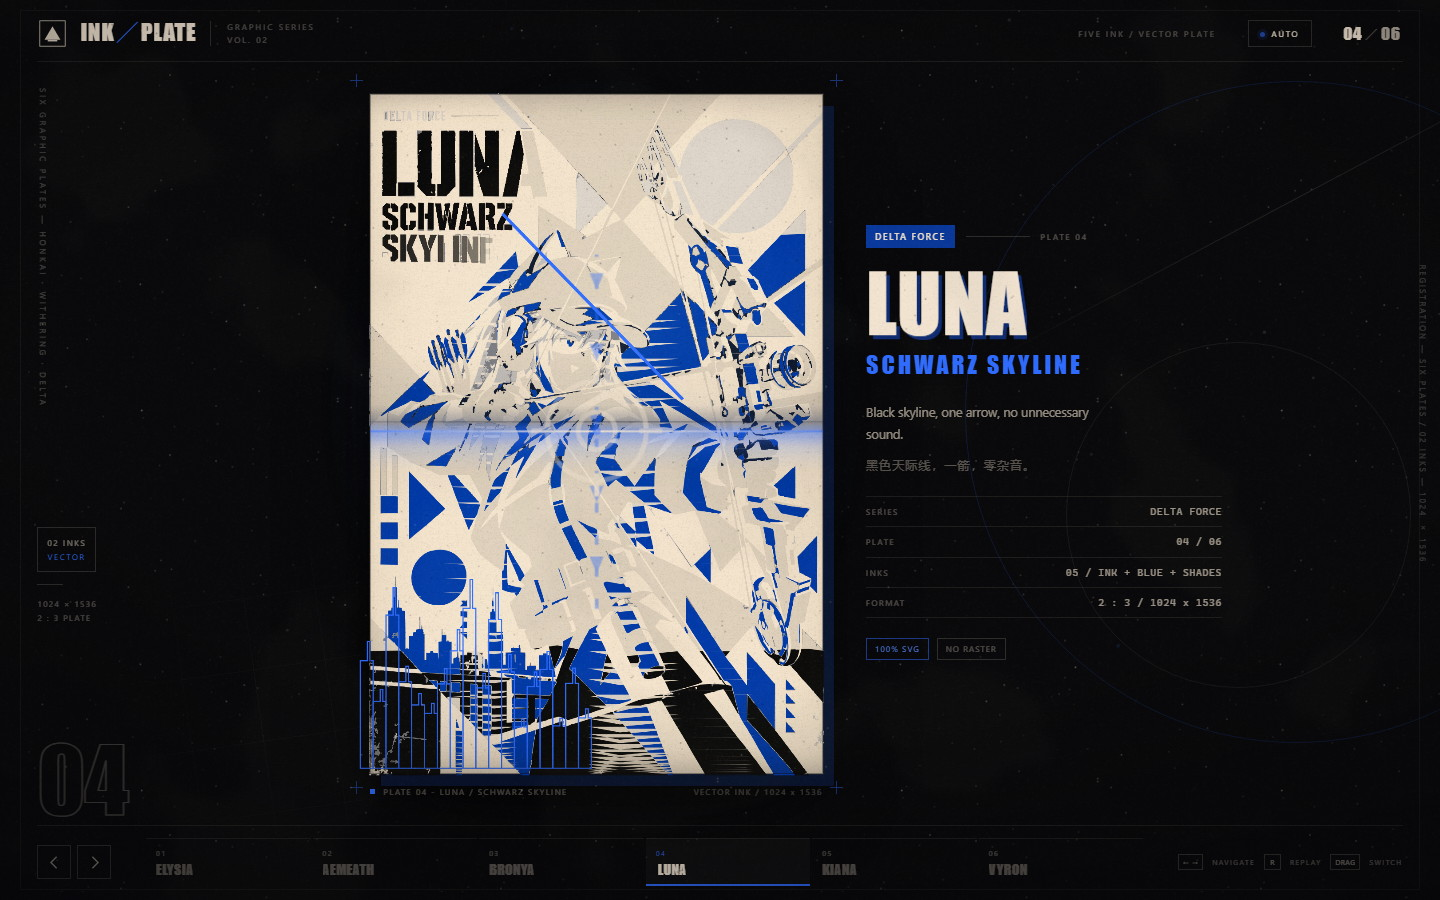
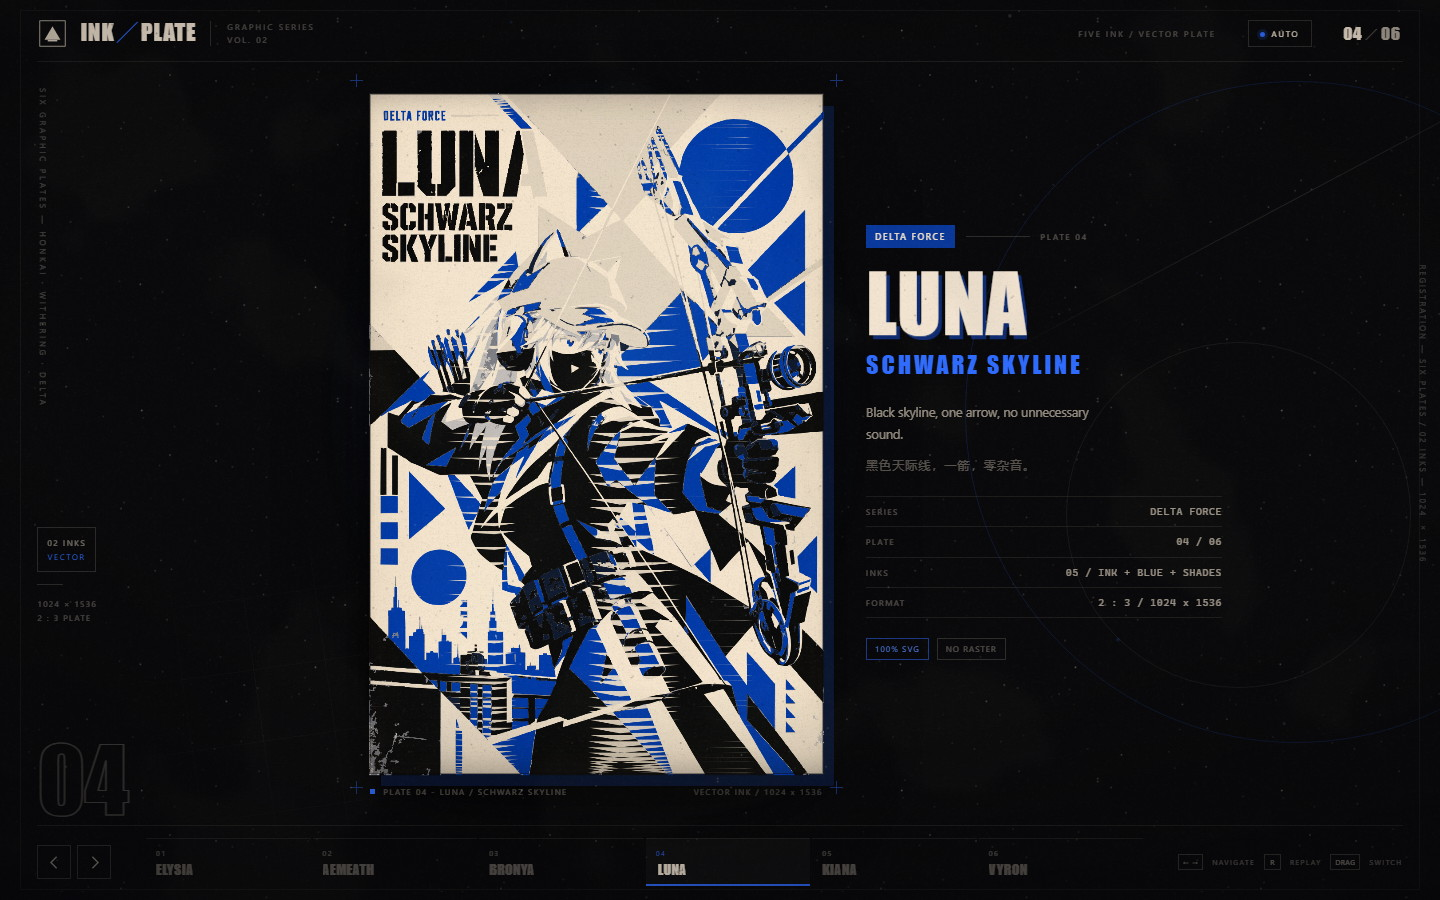
luna: remove entrance reticle and dashed guide

diff --git a/js/app.js b/js/app.js
@@ -565,16 +565,7 @@
         '<path d="M760 380l70-24M760 404l70-24M760 428l70-24" stroke="' + B + '" stroke-width="2"/>' +
         '</g>';
     }
-    if (id === 'luna') {
-      return '<g fill="none" stroke-linejoin="round">' +
-        '<circle cx="512" cy="300" r="86" stroke="' + B + '" stroke-width="2.4"/>' +
-        '<circle cx="512" cy="300" r="34" stroke="' + C + '" stroke-width="2"/>' +
-        '<path d="M512 196v-40M512 404v40M408 300h-40M616 300h40" stroke="' + B + '" stroke-width="2.4"/>' +
-        '<path d="M240 940 Q512 520 820 960" stroke="' + B + '" stroke-width="2" stroke-dasharray="8 14" fill="none" opacity=".9"/>' +
-        '<line x1="820" y1="960" x2="880" y2="1016" stroke="' + B + '" stroke-width="2"/>' +
-        '<path d="M240 1290h60v-70h44v40h50v-96h44v70h60v-40h46v96h60" stroke="' + B + '" stroke-width="2" fill="none" opacity=".85"/>' +
-        '</g>';
-    }
+    if (id === 'luna') { return ''; }
     if (id === 'kiana') {
       return '<g fill="none" stroke-linejoin="round">' + kianaSwordGroup(true) +
         '<circle cx="214" cy="1338" r="96" stroke="' + B + '" stroke-width="2" fill="none" opacity=".55"/>' +

diff --git a/js/ink.js b/js/ink.js
@@ -1044,10 +1044,8 @@
       exit: { dx: -5.2, dy: .6, rot: -.4, scale: .985 }
     },
     luna: {
-      fx: 'luna',
       print: { start: .30, gap: .12, spread: .44, dur: .64, jitter: .05, push: 2.4, alt: true,
                wave: { kind: 'linear', angle: -90 } },
-      guide: { kind: 'linear', angle: -90, start: .26, end: 1.6 },
       erase: { kind: 'linear', angle: 90 },
       enter: { from: 'translate3d(0,4.2%,0)' },
       exit: { dx: 0, dy: 4.6, rot: .7, scale: .982 }
